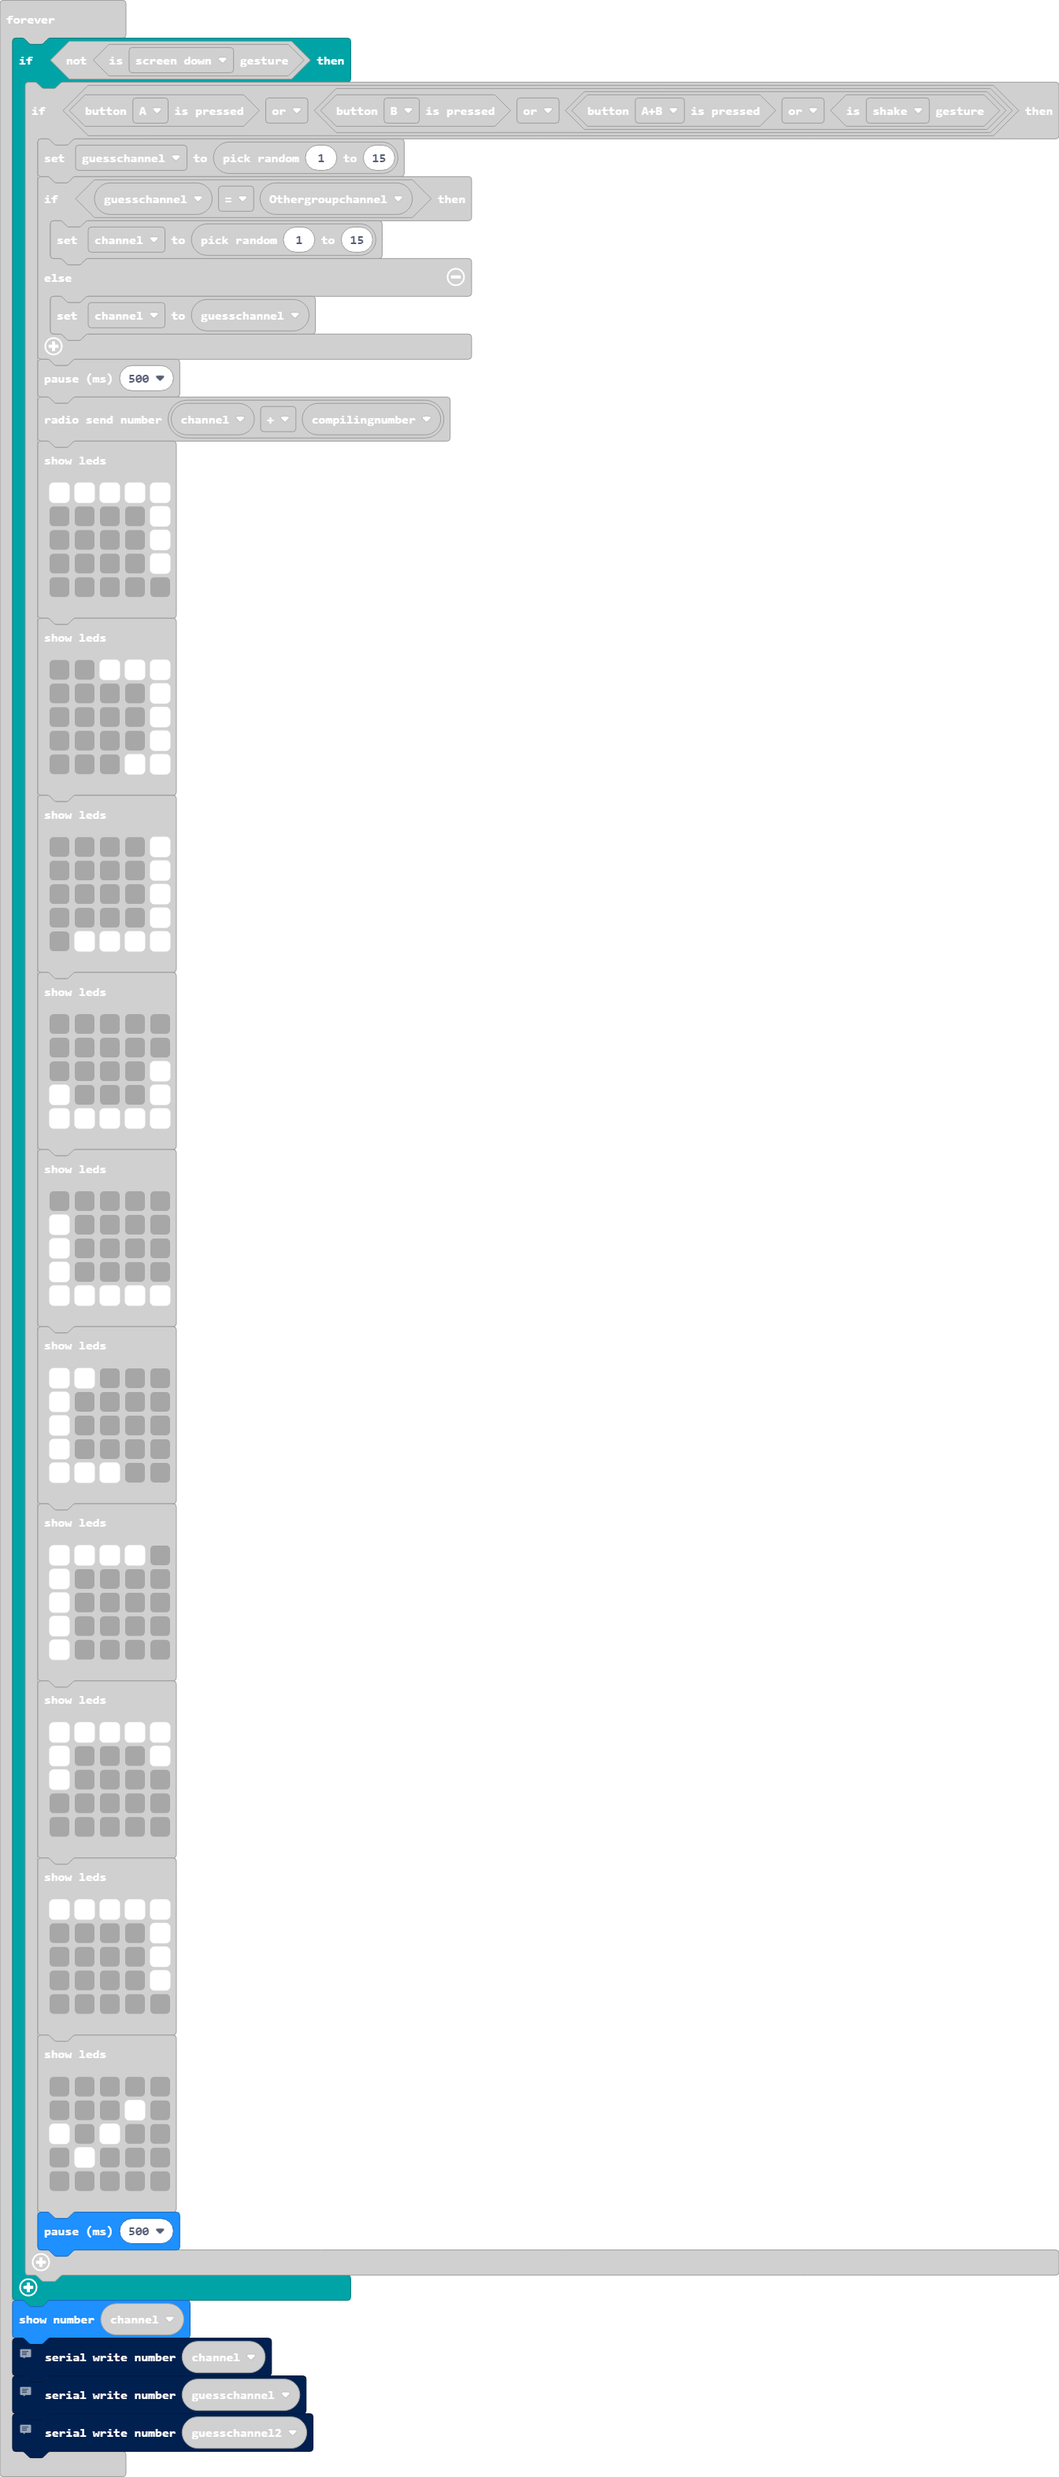
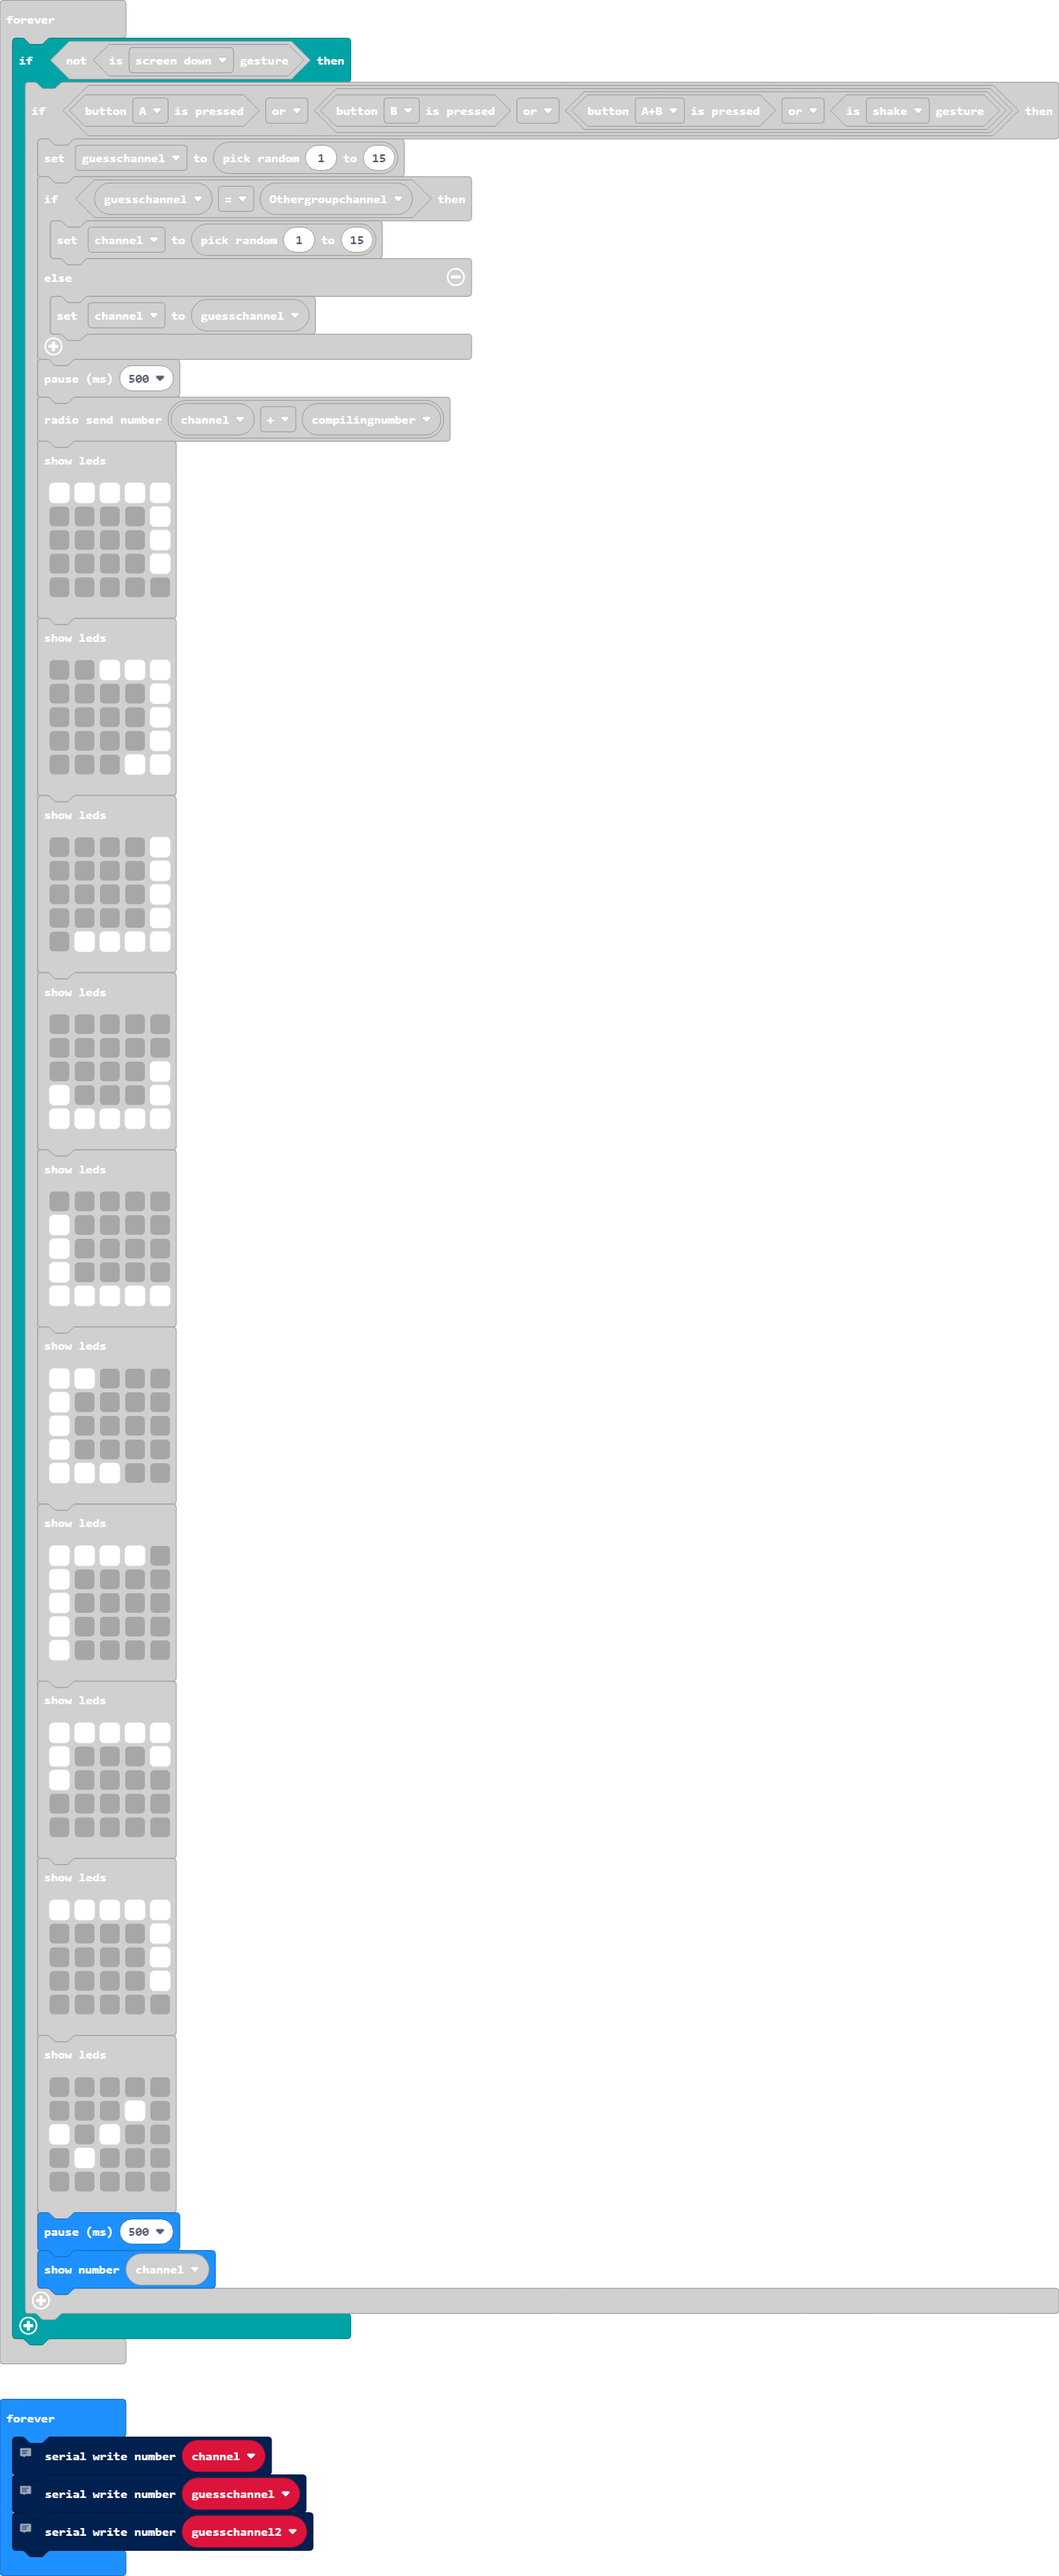
Update main.blocks, main.ts

Changed region(s): [[0.0, 0.0, 1.0, 1.0]]

diff --git a/main.ts b/main.ts
@@ -14,7 +14,6 @@ let compilingnumber = 0
 basic.showString("Ready")
 compilingnumber = randint(0, 10)
 basic.forever(function () {
-    let guesschannel2 = 0
     if (!(input.isGesture(Gesture.ScreenDown))) {
         if (input.buttonIsPressed(Button.A) || (input.buttonIsPressed(Button.B) || (input.buttonIsPressed(Button.AB) || input.isGesture(Gesture.Shake)))) {
             guesschannel = randint(1, 15)
@@ -96,9 +95,12 @@ basic.forever(function () {
                 . . . . .
                 `)
             basic.pause(500)
+            basic.showNumber(channel)
         }
     }
-    basic.showNumber(channel)
+})
+basic.forever(function () {
+    let guesschannel2 = 0
     // tester unusable
     serial.writeNumber(channel)
     // tester unusable
